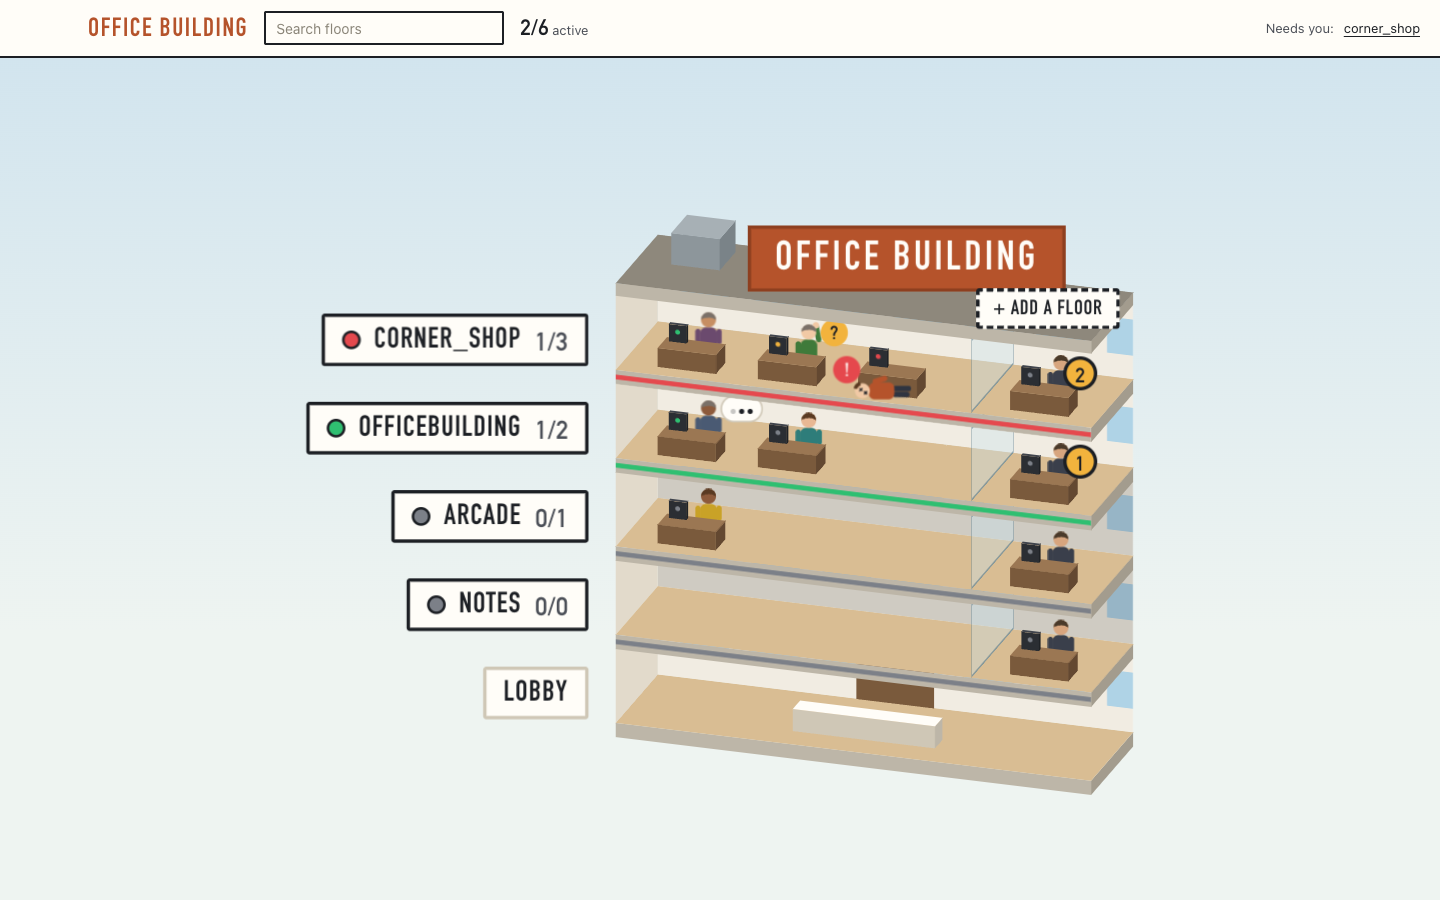
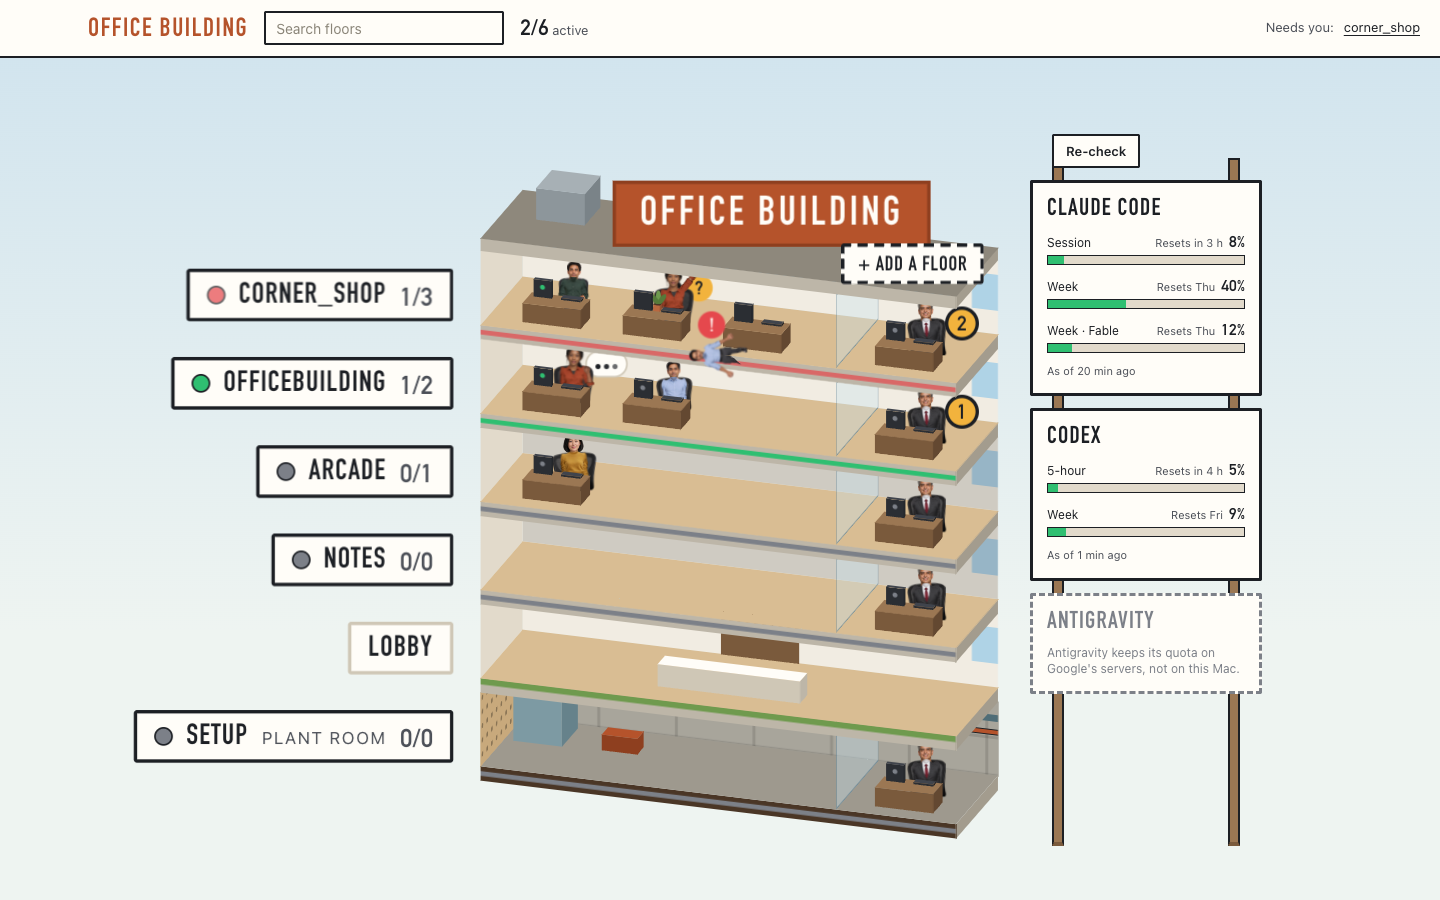
Refresh the README's screenshots and correct its stale claims

diff --git a/README.md b/README.md
@@ -1,6 +1,6 @@
 # Office Building
 
-![The building: one floor per repo, lit by status](docs/screenshots/building.png)
+![The building: one floor per repo, lit by status, with the usage signs beside it](docs/screenshots/building.png)
 
 A macOS desktop app (Tauri v2) that visualises and orchestrates coding-agent
 sessions as an **office building**:
@@ -97,22 +97,21 @@ sessions as an **office building**:
   to make it taller, and it keeps that height the next time it opens.
   Discovered / hand-started sessions raise their **original native terminal
   window** instead.
-- Sessions are **auto-discovered** from each tool's on-disk store (Claude Code
-  first, then Codex, then opencode / antigravity), so terminals you started by
-  hand still appear in the building.
-- The app also exposes its **own MCP server** so assistant agents can drive the building programmatically.
+- **Claude Code and Codex sessions are auto-discovered** from each tool's
+  on-disk store, so terminals you started by hand still appear in the building.
+  Antigravity, opencode and Cursor agents appear when you hire them from the app.
 
 | A floor | Its Decisions queue |
 | --- | --- |
-| ![A floor with three agents, one stuck](docs/screenshots/floor.png) | ![The Decisions panel open on a floor](docs/screenshots/decisions.png) |
+| ![A floor: agents at desks, subagents at tiny desks, pets, one agent stuck on the floor](docs/screenshots/floor.png) | ![The Decisions panel open on a floor](docs/screenshots/decisions.png) |
+| **Hiring an agent** | **The Setup floor** |
+| ![The hire dialog: tool, model, effort, ultracode and task](docs/screenshots/hire.png) | ![The Setup floor with its panel open: skills, instructions, MCP servers and hooks per tool](docs/screenshots/setup.png) |
 
 The screenshots show the browser build's mock data.
 
 The visual identity (tokens, type, motion, the 3D rig's constraints) is recorded
 in [`DESIGN.md`](DESIGN.md). Full design + research + locked decisions live in
-[`docs/office-building-plan.md`](docs/office-building-plan.md). The backend
-is based on `claude-command-center` (CCC) with our own office UI, sidebar, and
-MCP surface layered on.
+[`docs/office-building-plan.md`](docs/office-building-plan.md).
 
 ## Status
 
@@ -144,7 +143,11 @@ MCP surface layered on.
   Hired and resumed Codex agents skip Codex's update menu.
   Spend is priced at public API list prices (`discovery/pricing.rs`), which is
   what the same work would cost through the API, not what a subscription bills.
-- **Not yet:** answering in the app, the MCP server. See `TODO.md`.
+- **Not yet:** answering a terminal agent's own question from the Decisions
+  panel (answer it in the agent's terminal instead), and the app's own MCP
+  server for assistant agents. See `TODO.md`. Calls from a repo's decision
+  files, and approvals on desks without a terminal, are already answered in
+  the app.
 
 The backend is our own. CCC (claude-command-center) moved to a non-commercial,
 source-available licence on 2026-07-28, so we port logic only from its last MIT
@@ -235,10 +238,15 @@ src/
 src-tauri/
   src/
     model.rs              # serde mirror of types.ts (camelCase / kebab-case)
-    discovery/            # Claude Code and Codex sources, state rules, pets, floor assembly
+    discovery/            # Claude Code and Codex sources, state rules, pets, pricing, floor assembly
     office.rs             # discovery + the app's own records behind one lock
+    office/               # launching agents in terminals, the Setup floor, structured desks
+    project_files.rs      # decisions and TODOs read from (and written back to) each repo's files
     store.rs              # decisions, TODOs, agent notes (JSON in the app data dir)
-    options.rs            # hireable tools, models and per-model efforts
+    options.rs, options/  # hireable tools, models and per-model efforts, tools' own model lists
+    setup/                # the Setup floor's library, each tool's inventory, import, injection
+    structured/           # desks without a terminal: Codex app-server and ACP clients
+    feed.rs               # the hook status feed from agents the app launches
     tools.rs              # which agent CLIs are installed
     usage.rs              # each tool's usage-limit windows
     focus.rs              # focus a session's terminal tab, the folder picker
